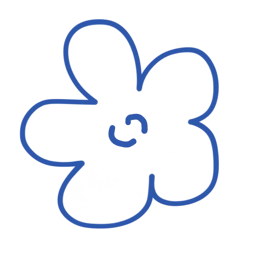
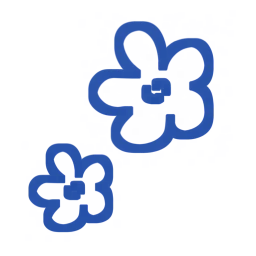
Hero as a word collage; cursor becomes the two-flower tattoo
Hero, following Martina's second reference:
- "HI, my name is MARTINA" above, with "my name is" in the italic serif
- the claim set as a small collage: words with little pictures between them,
  grouped so a word and its picture never get split across lines
- the "Portfolio Vol. 2026 / Barcelona, ES" line is gone
- the pictures are four new 260px crops (8-18 KB) from the campaign and collab
  work, deliberately not the ones the mouse trail uses

Cursor:
- two flowers now, a bigger one up to the right and a smaller one down to the
  left, arranged like Martina's tattoo, with the line thickened so it reads at
  cursor size (built by dilating the alpha, not by redrawing)
- a little bigger: 68px

Trail: fewer photos (six instead of seventeen) and smaller, as asked. The ones
taken out are listed in data/hero.js so they can be put back in one line.

Changed region(s): [[0.0625, 0.0625, 0.875, 0.9062]]

diff --git a/styles.css b/styles.css
@@ -508,21 +508,60 @@ img, video { max-width: 100%; }
   to   { transform: translateY(0); }
 }
 
-/* the claim: three lines, each pushed in differently, block centred under the name */
-.hero__claim {
+/* the greeting, then the claim as a little collage: words with pictures between
+   them, in the right half under COLA */
+.hero__intro {
   width: fit-content;
-  margin: clamp(1.4rem, 5vh, 3.4rem) clamp(0.5rem, 3vw, 4rem) 0 auto;
-  font-size: clamp(1.05rem, 2.5vw, 2.05rem);
+  max-width: min(560px, 100%);       /* narrow enough that the claim wraps like a collage */
+  margin: clamp(1.2rem, 4.5vh, 3rem) clamp(0.5rem, 3vw, 4rem) 0 auto;
+}
+.hero__hi {
+  font-size: clamp(1.45rem, 3.3vw, 2.85rem);
   font-weight: 700;
-  line-height: 1.04;
-  letter-spacing: 0.13em;
+  line-height: 1;
+  letter-spacing: -0.005em;
+  text-transform: uppercase;
+}
+.hero__hi em {                        /* the one word in script, like the reference */
+  font-family: var(--font-serif);
+  font-style: italic;
+  font-weight: 400;
+  text-transform: none;
+  letter-spacing: 0;
+}
+.hero__claim {
+  margin-top: 0.45em;
+  display: flex;
+  flex-wrap: wrap;
+  align-items: center;
+  justify-content: center;           /* ragged, centred lines */
+  gap: 0.28em 0.34em;
+  font-size: clamp(0.95rem, 2vw, 1.8rem);
+  font-weight: 700;
+  line-height: 1.05;
+  letter-spacing: 0.06em;
   text-transform: uppercase;
   color: rgba(255, 255, 255, 0.95);
 }
-.hero__claim span { display: block; }
-.hero__claim span:nth-child(1) { margin-left: 5.6em; }
-.hero__claim span:nth-child(2) { margin-left: 0; }
-.hero__claim span:nth-child(3) { margin-left: 2.1em; }
+.hero__grp {                          /* words and their picture travel together */
+  display: inline-flex;
+  align-items: center;
+  gap: 0.34em;
+  white-space: nowrap;
+}
+.hero__pic {                          /* sized in em, so it grows with the words */
+  flex: 0 0 auto;
+  width: 2.5em;
+  height: 1.5em;
+  object-fit: cover;
+  border-radius: 3px;
+}
+.hero__pic--flower {
+  width: 1.45em;
+  height: 1.45em;
+  object-fit: contain;
+  border-radius: 0;
+}
 
 .hero__foot {
   margin-top: auto;
@@ -580,7 +619,7 @@ img, video { max-width: 100%; }
 .hero > *:not(.trail) { position: relative; z-index: 1; }
 .trail__img {
   position: absolute;
-  width: clamp(148px, 15vw, 240px);
+  width: clamp(118px, 11vw, 176px);
   height: auto;
   margin: 0;
   border-radius: 8px;
@@ -1668,9 +1707,9 @@ body::after {
   position: fixed;
   left: 0;
   top: 0;
-  width: 52px;
-  height: 52px;
-  margin: -26px 0 0 -26px;
+  width: 68px;
+  height: 68px;
+  margin: -34px 0 0 -34px;
   z-index: 9999;
   pointer-events: none;
   transition: opacity 0.3s;

diff --git a/data/hero.js b/data/hero.js
@@ -9,24 +9,18 @@
 window.PORTFOLIO = window.PORTFOLIO || {};
 
 window.PORTFOLIO.hero = [
-  { src: "assets/trail/t1-400.webp", srcHi: "assets/trail/t1-700.webp" },
   { src: "content/hero/hero-01-400.webp", srcHi: "content/hero/hero-01-800.webp" },
-  { src: "assets/trail/t2-400.webp", srcHi: "assets/trail/t2-526.webp" },
-  { src: "content/hero/hero-02-400.webp", srcHi: "content/hero/hero-02-800.webp" },
-  { src: "assets/trail/t3-400.webp", srcHi: "assets/trail/t3-700.webp" },
+  { src: "assets/trail/t1-400.webp", srcHi: "assets/trail/t1-700.webp" },
   { src: "content/hero/hero-03-400.webp", srcHi: "content/hero/hero-03-800.webp" },
-  { src: "assets/trail/t4-400.webp", srcHi: "assets/trail/t4-700.webp" },
-  { src: "content/hero/hero-04-400.webp", srcHi: "content/hero/hero-04-800.webp" },
-  { src: "assets/trail/t5-400.webp", srcHi: "assets/trail/t5-525.webp" },
-  { src: "content/hero/hero-05-400.webp", srcHi: "content/hero/hero-05-800.webp" },
-  { src: "assets/trail/t6-400.webp", srcHi: "assets/trail/t6-525.webp" },
   { src: "content/hero/hero-06-400.webp", srcHi: "content/hero/hero-06-800.webp" },
-  { src: "assets/trail/t7-400.webp", srcHi: "assets/trail/t7-525.webp" },
-  { src: "content/hero/hero-07-400.webp", srcHi: "content/hero/hero-07-800.webp" },
-  { src: "content/hero/hero-08-400.webp", srcHi: "content/hero/hero-08-800.webp" },
-  { src: "content/hero/hero-09-400.webp", srcHi: "content/hero/hero-09-800.webp" },
-  { src: "content/hero/hero-10-400.webp", srcHi: "content/hero/hero-10-800.webp" }
+  { src: "assets/trail/t3-400.webp", srcHi: "assets/trail/t3-700.webp" },
+  { src: "content/hero/hero-08-400.webp", srcHi: "content/hero/hero-08-800.webp" }
 ];
+
+/* Kept out of the trail for now (fewer photos, less variety) — move any of
+   these back into the list above to bring it back:
+     content/hero/hero-02, hero-04, hero-05, hero-07, hero-09, hero-10
+     assets/trail/t2, t4, t5, t6, t7  */
 
 window.PORTFOLIO.intro = [
   "content/hero/hero-01-800.webp",

diff --git a/index.html b/index.html
@@ -81,21 +81,25 @@
   <!-- ============================ HERO ============================ -->
   <section class="hero" id="hero" data-navtheme="light">
     <div class="trail" aria-hidden="true"></div>
-    <div class="hero__meta">
-      <span>Portfolio Vol. 2026</span>
-      <span class="hero__meta-dot">/</span>
-      <span>Barcelona, ES</span>
-    </div>
-
     <h1 class="hero__title">
       <span class="line"><span>Martina</span></span>
       <span class="line line--stroke"><span>Cola</span></span>
     </h1>
-    <p class="hero__claim" data-reveal>
-      <span>Italian</span>
-      <span>marketer</span>
-      <span>based in Barcelona</span>
-    </p>
+    <!-- the greeting, then the same line as a small collage: words with pictures
+         set between them. Swap a picture by changing the src. -->
+    <div class="hero__intro" data-reveal>
+      <p class="hero__hi">Hi, <em>my name is</em> Martina</p>
+      <p class="hero__claim">
+        <!-- each group stays together; the line only breaks between groups -->
+        <span class="hero__grp"><span>Italian</span>
+          <img class="hero__pic" src="assets/wordpics/wp-01.webp" alt="" width="260" height="462" loading="eager" /></span>
+        <span class="hero__grp"><span>marketer</span>
+          <img class="hero__pic" src="assets/wordpics/wp-02.webp" alt="" width="260" height="390" loading="eager" /></span>
+        <span class="hero__grp"><span>based in Barcelona</span>
+          <img class="hero__pic hero__pic--flower" src="assets/cursor-flower-white.webp" alt="" width="256" height="256" />
+          <img class="hero__pic" src="assets/wordpics/wp-03.webp" alt="" width="260" height="391" loading="eager" /></span>
+      </p>
+    </div>
 
     <div class="hero__foot">
       <p class="hero__hint" aria-hidden="true">Move your mouse <span>&#10033;</span></p>

diff --git a/script.js b/script.js
@@ -294,9 +294,11 @@
     var i = 1, timer = null, visible = true;
 
     // size and centre the stack in the free space between the claim and the footer
+    // (measured, not offsetTop: the claim sits inside a positioned wrapper)
     function place() {
-      var top = claim.offsetTop + claim.offsetHeight;
-      var free = foot.offsetTop - top;
+      var h = heroEl.getBoundingClientRect();
+      var top = claim.getBoundingClientRect().bottom - h.top;
+      var free = foot.getBoundingClientRect().top - h.top - top;
       var w = Math.min((free - 40) / 1.25, heroEl.clientWidth * 0.62, 260);
       stack.hidden = w < 96;
       stack.style.width = w + "px";
